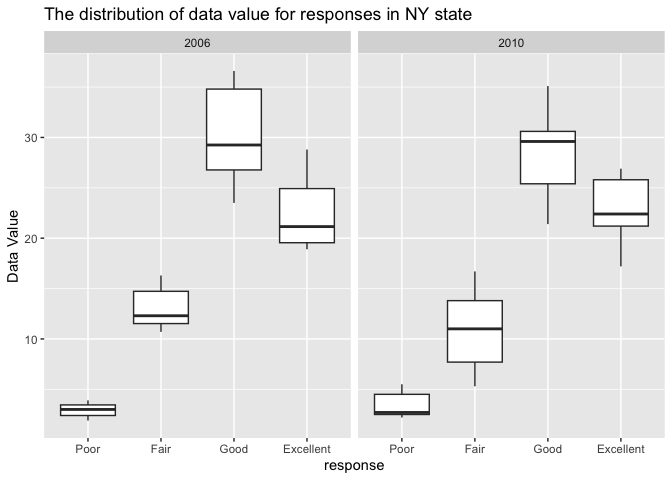
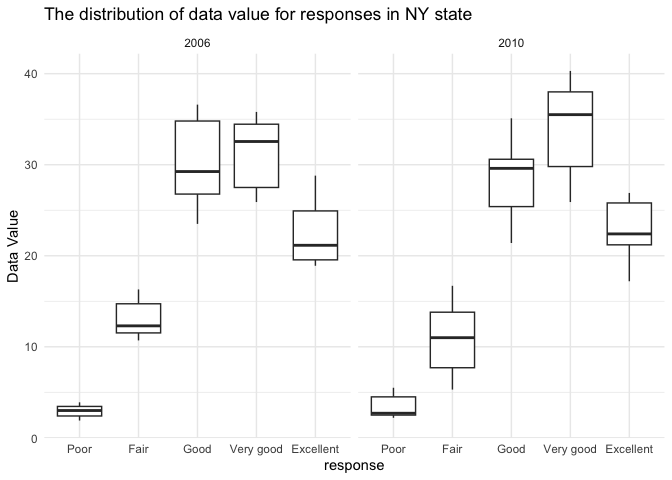
Problem 2 + 3: amplifed the description

diff --git a/p8105_hw3_jh4617.md b/p8105_hw3_jh4617.md
@@ -21,6 +21,8 @@ library(tidyverse)
 
 ``` r
 data("instacart")
+
+theme_set(theme_minimal() + theme(legend.position = "bottom"))
 ```
 
 # Problem 1
@@ -56,9 +58,7 @@ from.
 instacart |>
   group_by(aisle) |>
   summarize(sum_order_number = sum(order_number)) |>
-
   filter(sum_order_number > 10000) |>
-  arrange(sum_order_number) |>
   ggplot(aes(x = aisle, y = sum_order_number)) +
   geom_boxplot() +
     labs(
@@ -133,8 +133,8 @@ problem2 =
   brfss_smart2010 |> 
   janitor::clean_names() |>
   filter(topic == "Overall Health",
-         response %in% c("Excellent", "Very Good", "Good", "Fair", "Poor")) |>
-    mutate(response = factor(response, levels = c("Poor", "Fair", "Good", "Very Good", "Excellent")))
+         response %in% c("Excellent", "Very good", "Good", "Fair", "Poor")) |>
+    mutate(response = factor(response, levels = c("Poor", "Fair", "Good", "Very good", "Excellent")))
 ```
 
 2002
@@ -213,9 +213,12 @@ ggplot(data = problem2_ggplot, aes( x = year, y = mean_data_value, group = locat
         title = "Mean Data Value for Excellent Response by Year")
 ```
 
-![](p8105_hw3_jh4617_files/figure-gfm/unnamed-chunk-8-1.png)<!-- --> The
-highest mean data value is 29.46 in UT when 2002. The lowest mean data
-value is 11.5 in WV when 2005.
+![](p8105_hw3_jh4617_files/figure-gfm/unnamed-chunk-8-1.png)<!-- -->
+
+The mean data value of states is fluctuating across time. The mean data
+value across state is quite different too. The highest mean data value
+is 29.46 in UT when 2002. The lowest mean data value is 11.5 in WV when
+2005.
 
 ``` r
 problem2_ggplot2 = 
@@ -241,8 +244,17 @@ ggplot(data = problem2_ggplot2, aes(x = data_value, fill = response)) +
         title = "The distribution of data value for responses in NY state")
 ```
 
-![](p8105_hw3_jh4617_files/figure-gfm/unnamed-chunk-9-2.png)<!-- --> The
-mean data value of individuals responded poor health at NY in 2006
+![](p8105_hw3_jh4617_files/figure-gfm/unnamed-chunk-9-2.png)<!-- -->
+
+The median data value of people who responded “poor” is the lowest among
+all response both in 2006 and 2010, which is equal to 3 in 2006, and 2.7
+in 2010. The median data value of people who responded “fair” is the
+second lowest among all response, which is equal to 12.3 in 2006, and 11
+in 2010. The median data value of people of people responded “Good” is
+equal to 29.25 in 2006, and 29.6. The median data value of people of
+people responded “Very Good” is equal to 32.55 in 2006, and 35.5. The
+median data value of people of people responded “Excellent” is equal to
+21.15 in 2006, and 22.4.
 
 # Problem 3
 
@@ -304,7 +316,7 @@ problem3_join |>
         title = "The age distribution for men and women in each education category")
 ```
 
-![](p8105_hw3_jh4617_files/figure-gfm/unnamed-chunk-11-1.png)<!-- -->
+![](p8105_hw3_jh4617_files/figure-gfm/unnamed-chunk-12-1.png)<!-- -->
 
 In `Less than high school` category, the age of female and male are
 similar. In `High school equivalent` category, the age of female is
@@ -328,28 +340,54 @@ total_activity =
 ``` r
 ggplot(data = total_activity, aes(x = age, y = sum_min, color = sex)) +
   geom_point(alpha = 0.3) +
-  geom_smooth(se = FALSE) +
-  facet_grid(.~education)
-```
-
-    ## `geom_smooth()` using method = 'loess' and formula = 'y ~ x'
-
-![](p8105_hw3_jh4617_files/figure-gfm/unnamed-chunk-12-1.png)<!-- -->
-
-Comment
-
-``` r
- problem3_join |>
-  pivot_longer(
-    starts_with("min"),
-    names_to = "minute",
-    values_to = "value") |>
-ggplot(aes(x = minute  , y = value, color = sex)) +
-  geom_point(alpha = 0.3) +
-  geom_smooth() +
-  facet_grid(.~education)
+  geom_smooth(aes(group = sex), se = FALSE) +
+  facet_grid(.~education) + 
+  labs(
+    x = "Age",
+    y = "Total_Activity") 
 ```
 
     ## `geom_smooth()` using method = 'loess' and formula = 'y ~ x'
 
 ![](p8105_hw3_jh4617_files/figure-gfm/unnamed-chunk-13-1.png)<!-- -->
+
+In `Less than high school` category, female have a higher total
+acitivity than male in the early age, however, in the older age, the
+total activity of male is higher than female. In
+`High school equivalent` category, except at the very early of the age,
+the total activity of female is generally higher than male. In
+`More than high school` category, the total activity of female is always
+higher than male.
+
+``` r
+problem3_plot =
+  problem3_join |>
+  pivot_longer(
+    starts_with("min"),
+    names_to = "minute",
+    values_to = "value" ) |>
+  mutate(minute = sub("min", "", minute))|>
+  mutate(minute = as.numeric(minute))
+
+ggplot(data = problem3_plot, aes(x = minute  , y = value, color = sex)) +
+  geom_smooth(aes(group = sex)) +
+  facet_grid(.~education) +
+  labs(
+    title = "The activity value among time between male and female by education",
+    x = "acticity time",
+    y = "activity value"
+  )
+```
+
+    ## `geom_smooth()` using method = 'gam' and formula = 'y ~ s(x, bs = "cs")'
+
+![](p8105_hw3_jh4617_files/figure-gfm/unnamed-chunk-14-1.png)<!-- -->
+
+In `less than high school` category, the activity value of male and
+female are generally similar among time. In `high school equivalent`
+category, the activity value of male and female is similar before 500
+minute and after 1000 minute, however female’s activity value is
+slightly higher than male from 500 to 1000 minute. In
+`more than high school` category, the activity value of male and female
+is similar before 500 minute and after 1000 minute, however female’s
+activity value is higher than male from 500 to 1000 minute.
